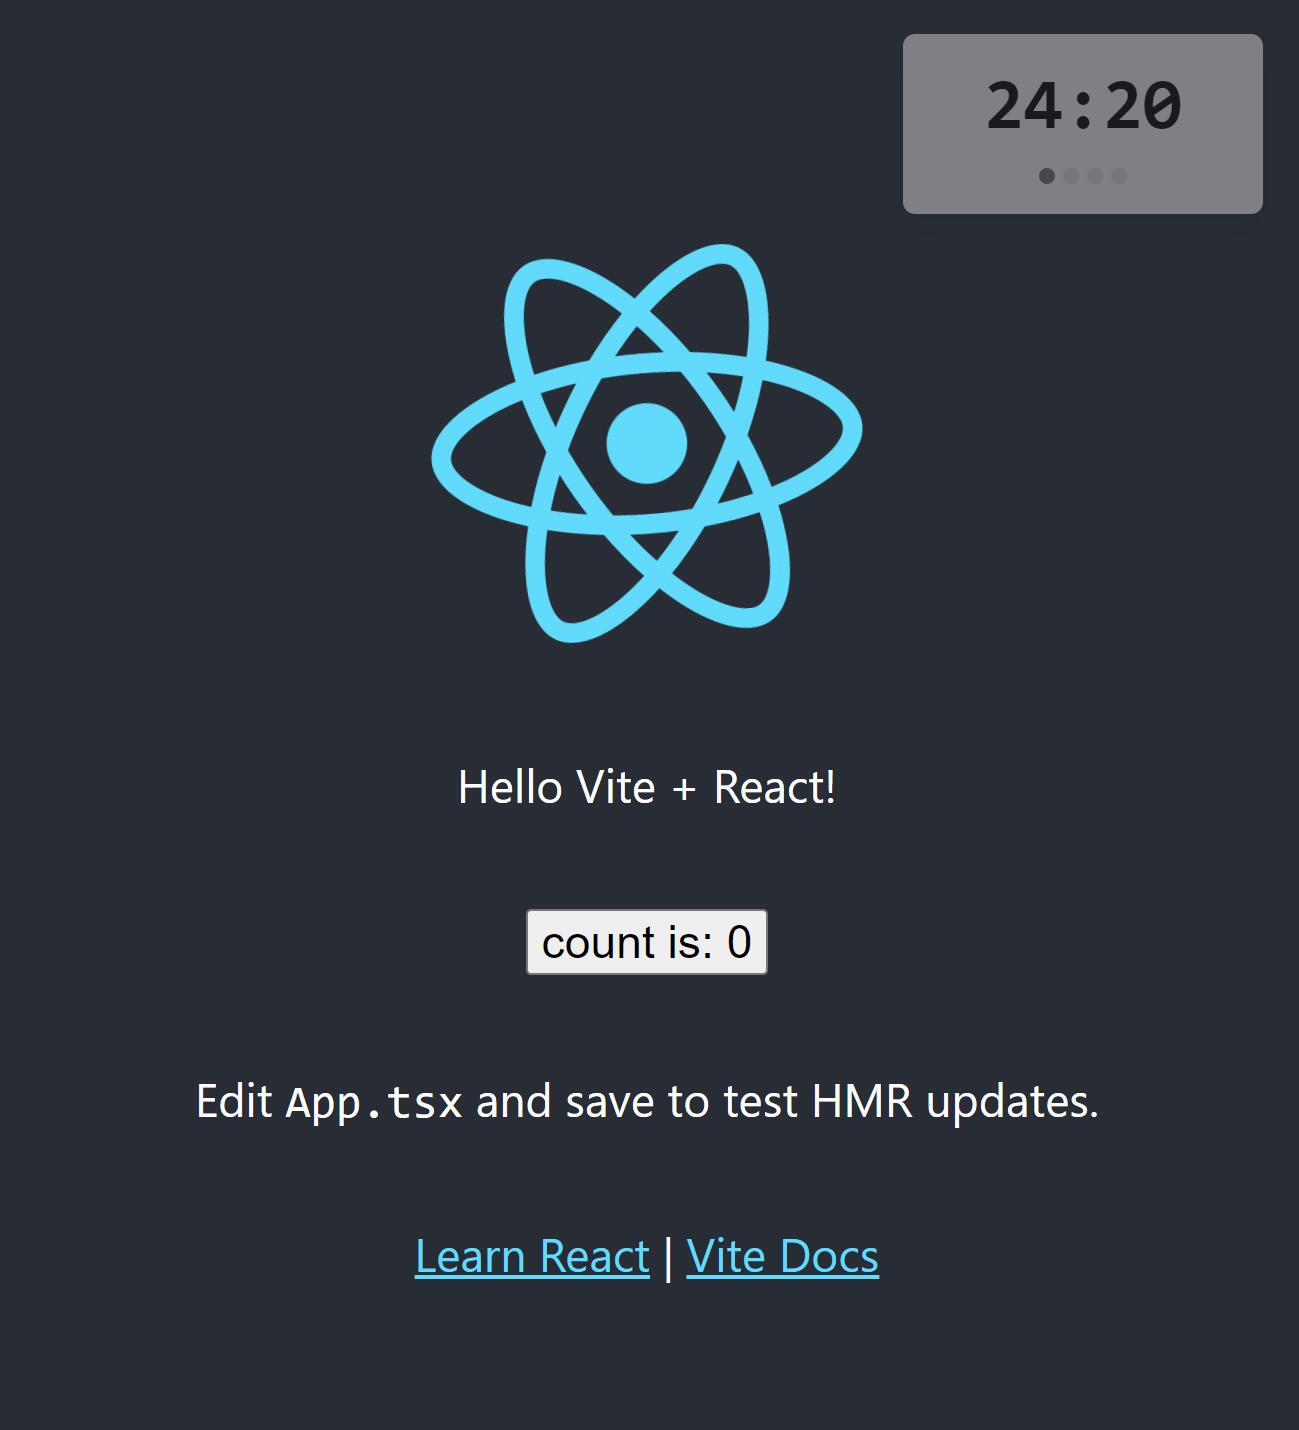
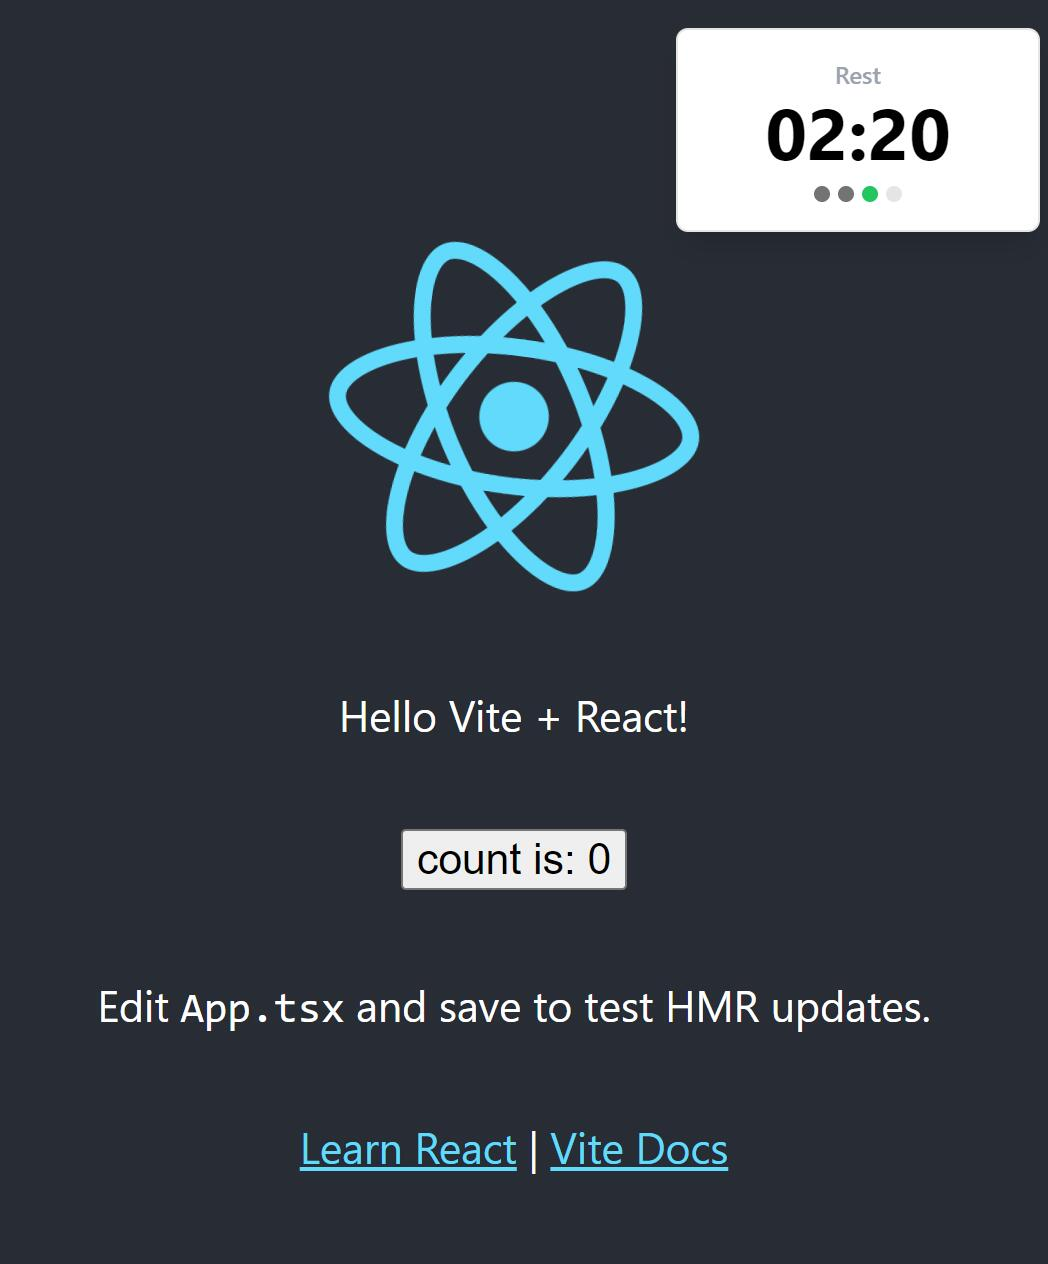
add widget logic

diff --git a/widget/src/App.svelte b/widget/src/App.svelte
@@ -1,32 +1,78 @@
 <script lang="ts">
   import 'uno.css'
-  import { onMount } from 'svelte'
-  import { displayDuration } from './util'
+  import { displayDuration, State, validateState } from './util'
+  import { writable } from 'svelte/store'
+  import RingSound from './ring.ogg?url'
 
-  let current: number
-  let endAt: number
+  let now = Date.now()
+  let isPaused = true
+  let timer: ReturnType<typeof setTimeout> | undefined
 
-  let currentStep = 1
+  export let notifySound: string | false
 
-  onMount(() => {
-    const handleTick = () => {
-      endAt ??= Date.now() + 25 * 60 * 1000
-      current = Date.now()
+  const STORAGE_KEY = '@pomodoro/state'
+  const state = writable<State>(createNextState())
+
+  function createNextState(playAudio = false): State {
+    isPaused = true
+    if (playAudio && notifySound !== false) {
+      new Audio(notifySound ?? RingSound).play()
     }
-    handleTick()
-    const interval = setInterval(handleTick, 1000)
-    return () => clearInterval(interval)
-  })
+    if (!$state) {
+      const persisted = JSON.parse(localStorage.getItem(STORAGE_KEY))
+      if (validateState(persisted)) return persisted
+      return { step: 0, leftSeconds: 25 * 60, status: 'work' }
+    } else {
+      const nextStatus: State['status'] = $state.status === 'work' ? 'rest' : 'work'
+      const nextStep = nextStatus === 'rest' ? $state.step : ($state.step + 1) % 4
+      const nextLeftSeconds = (nextStatus === 'work' ? 25 : nextStep === 3 ? 30 : 5) * 60
+      return { step: nextStep, leftSeconds: nextLeftSeconds, status: nextStatus }
+    }
+  }
+
+  function tick() {
+    state.update((s) => ({ ...s, leftSeconds: s.leftSeconds - 1 }))
+  }
+
+  $: localStorage.setItem(STORAGE_KEY, JSON.stringify({ ...$state, version: 1 }))
+
+  $: $state.leftSeconds < 0 && ($state = createNextState(true))
+
+  $: !isPaused ? (timer = setInterval(tick, 1000)) : clearTimeout(timer)
 </script>
 
-<div class="fixed top-5 right-5 cursor-pointer opacity-40 transition hover:opacity-100">
-  <div class="flex h-[90px] w-[180px] flex-col items-center justify-center rounded-md bg-white shadow-lg">
-    <div class="font-mono text-4xl font-bold">
-      {current && endAt ? displayDuration(endAt - current) : '--:--'}
+<div
+  class="fixed top-5 right-5 cursor-pointer opacity-40 transition hover:opacity-100 select-none"
+  on:click={() => (isPaused = !isPaused)}
+>
+  <div
+    class="flex h-[100px] w-[180px] flex-col items-center justify-center rounded-md bg-white shadow-lg border border-true-gray-200"
+  >
+    <div class="text-xs font-medium text-gray">
+      {$state.status === 'rest' ? 'Rest' : 'Work'}
+      {isPaused ? `Paused ${displayDuration($state.leftSeconds)}` : ''}
     </div>
-    <div class="mt-3 flex gap-1">
-      {#each [1, 2, 3, 4] as i}
-        <div class={`${i > currentStep ? 'bg-true-gray-200' : 'bg-true-gray-500'} h-2 w-2 rounded-full`} />
+    {#if isPaused}
+      <svg width="1em" height="1em" viewBox="0 0 32 32" class="text-3xl text-true-gray-500 h-10">
+        <path
+          fill="currentColor"
+          d="M12 6h-2a2 2 0 0 0-2 2v16a2 2 0 0 0 2 2h2a2 2 0 0 0 2-2V8a2 2 0 0 0-2-2zm10 0h-2a2 2 0 0 0-2 2v16a2 2 0 0 0 2 2h2a2 2 0 0 0 2-2V8a2 2 0 0 0-2-2z"
+        />
+      </svg>
+    {:else}
+      <div class="text-4xl font-bold">
+        {now ? displayDuration($state.leftSeconds) : '--:--'}
+      </div>
+    {/if}
+    <div class="mt-2 flex gap-1">
+      {#each [0, 1, 2, 3] as i}
+        <div
+          class:bg-green-500={i === $state.step && $state.status === 'rest'}
+          class:bg-yellow-500={i === $state.step && $state.status === 'work'}
+          class:bg-true-gray-500={i < $state.step}
+          class:bg-true-gray-200={i > $state.step}
+          class="h-2 w-2 rounded-full transition"
+        />
       {/each}
     </div>
   </div>

diff --git a/widget/src/util.ts b/widget/src/util.ts
@@ -1,8 +1,17 @@
-export function displayDuration(time: number) {
-  const seconds = time / 1000
+export function displayDuration(seconds: number) {
   return `${Math.floor(seconds / 60)
     .toString()
     .padStart(2, '0')}:${Math.floor(seconds % 60)
     .toString()
     .padStart(2, '0')}`
+}
+
+export type State = { step: number; leftSeconds: number; status: 'work' | 'rest' }
+
+export function validateState(value: any): value is State {
+  if (typeof value !== 'object') return false
+  if (!('step' in value) || typeof value.step !== 'number' || value.step >= 4 || value.step < 0) return false
+  if (!('leftSeconds' in value) || typeof value.leftSeconds !== 'number' || value.leftSeconds < 0) return false
+  if (!('status' in value) || (value.status !== 'work' && value.status !== 'rest')) return false
+  return true
 }

diff --git a/widget/uno.config.ts b/widget/uno.config.ts
@@ -1,7 +1,7 @@
-import { defineConfig, presetUno } from 'unocss'
+import { defineConfig, presetUno, presetAttributify } from 'unocss'
 import { extractorSvelte } from '@unocss/core'
 
 export default defineConfig({
-  presets: [presetUno()],
+  presets: [presetUno(), presetAttributify({})],
   extractors: [extractorSvelte],
 })
